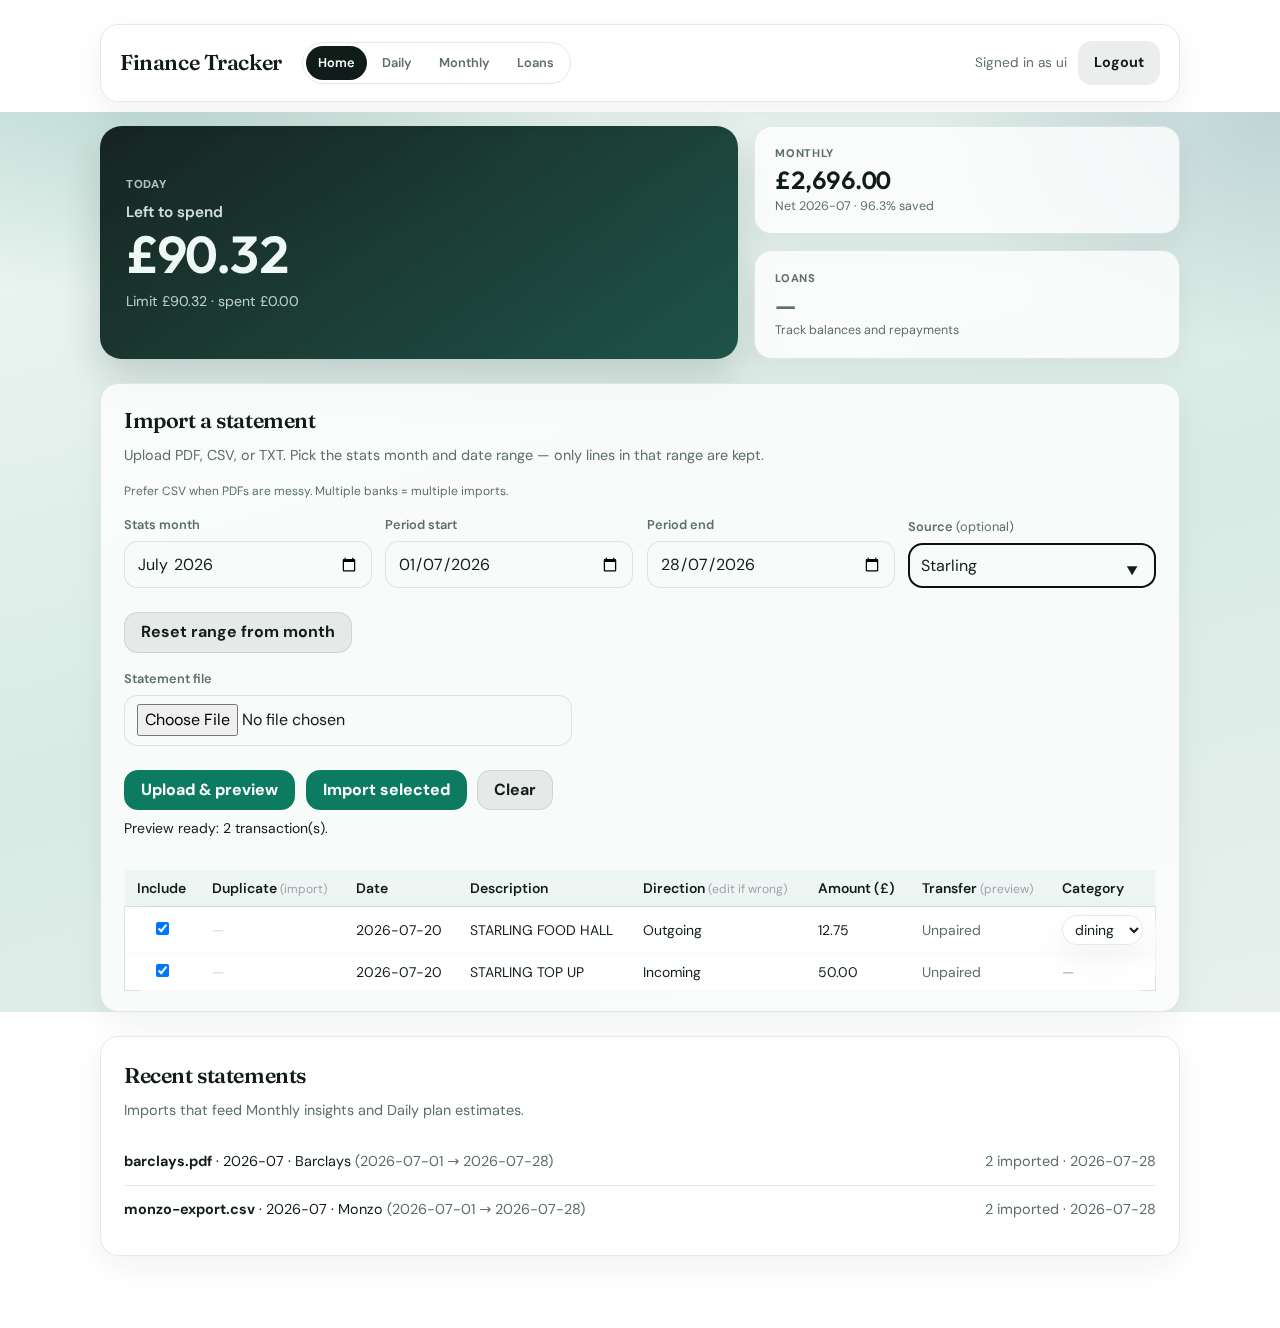
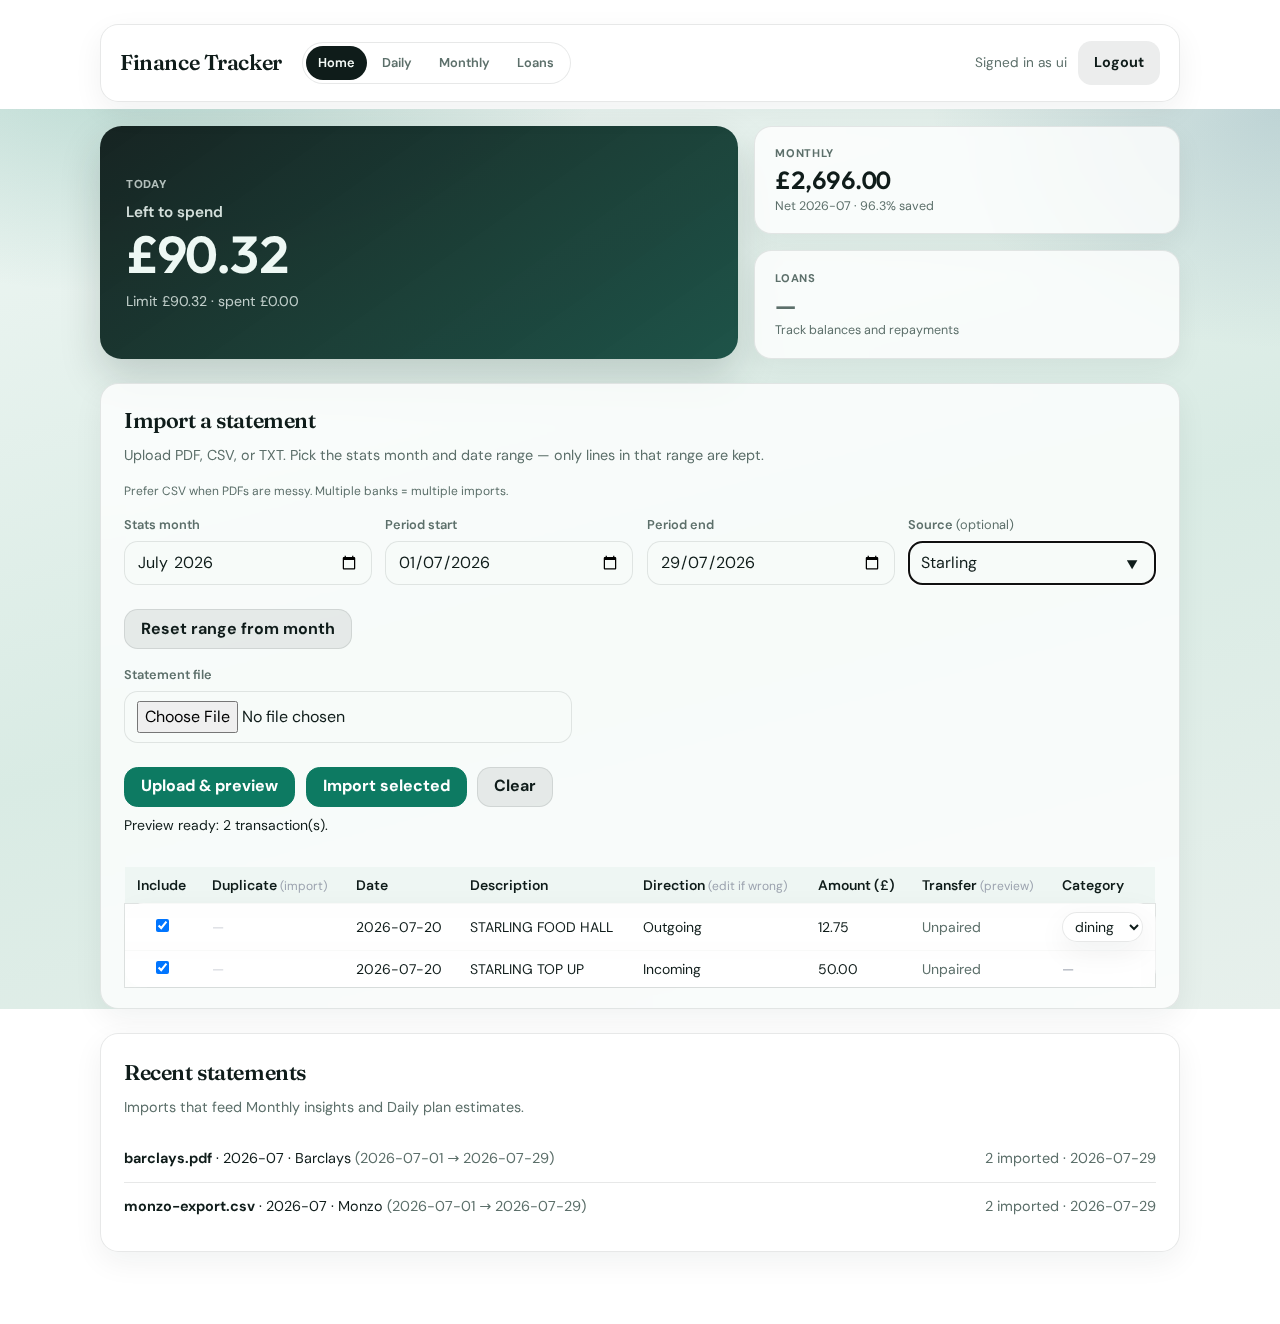
Fix Source field vertical alignment in Home import row
Top-align the import fields grid and lock control height so the Source
input lines up with month/date fields even when a hint sits below it.

diff --git a/static/style.css b/static/style.css
@@ -780,6 +780,13 @@ body.home-page {
     box-sizing: border-box;
 }
 
+/* Same box for month/date/text so the Source column lines up with period fields. */
+.import-fields .import-field > input.spending-control {
+    height: 2.75rem;
+    min-height: 2.75rem;
+    line-height: 1.25;
+}
+
 .import-reset {
     align-self: stretch;
     text-align: center;
@@ -800,7 +807,9 @@ body.home-page {
 @media (min-width: 640px) {
     .import-fields {
         grid-template-columns: repeat(2, minmax(0, 1fr));
-        align-items: end;
+        /* Top-align so fields with different heights (e.g. Source + hint)
+           keep labels/inputs on the same row as siblings. */
+        align-items: start;
     }
 
     .import-reset {
